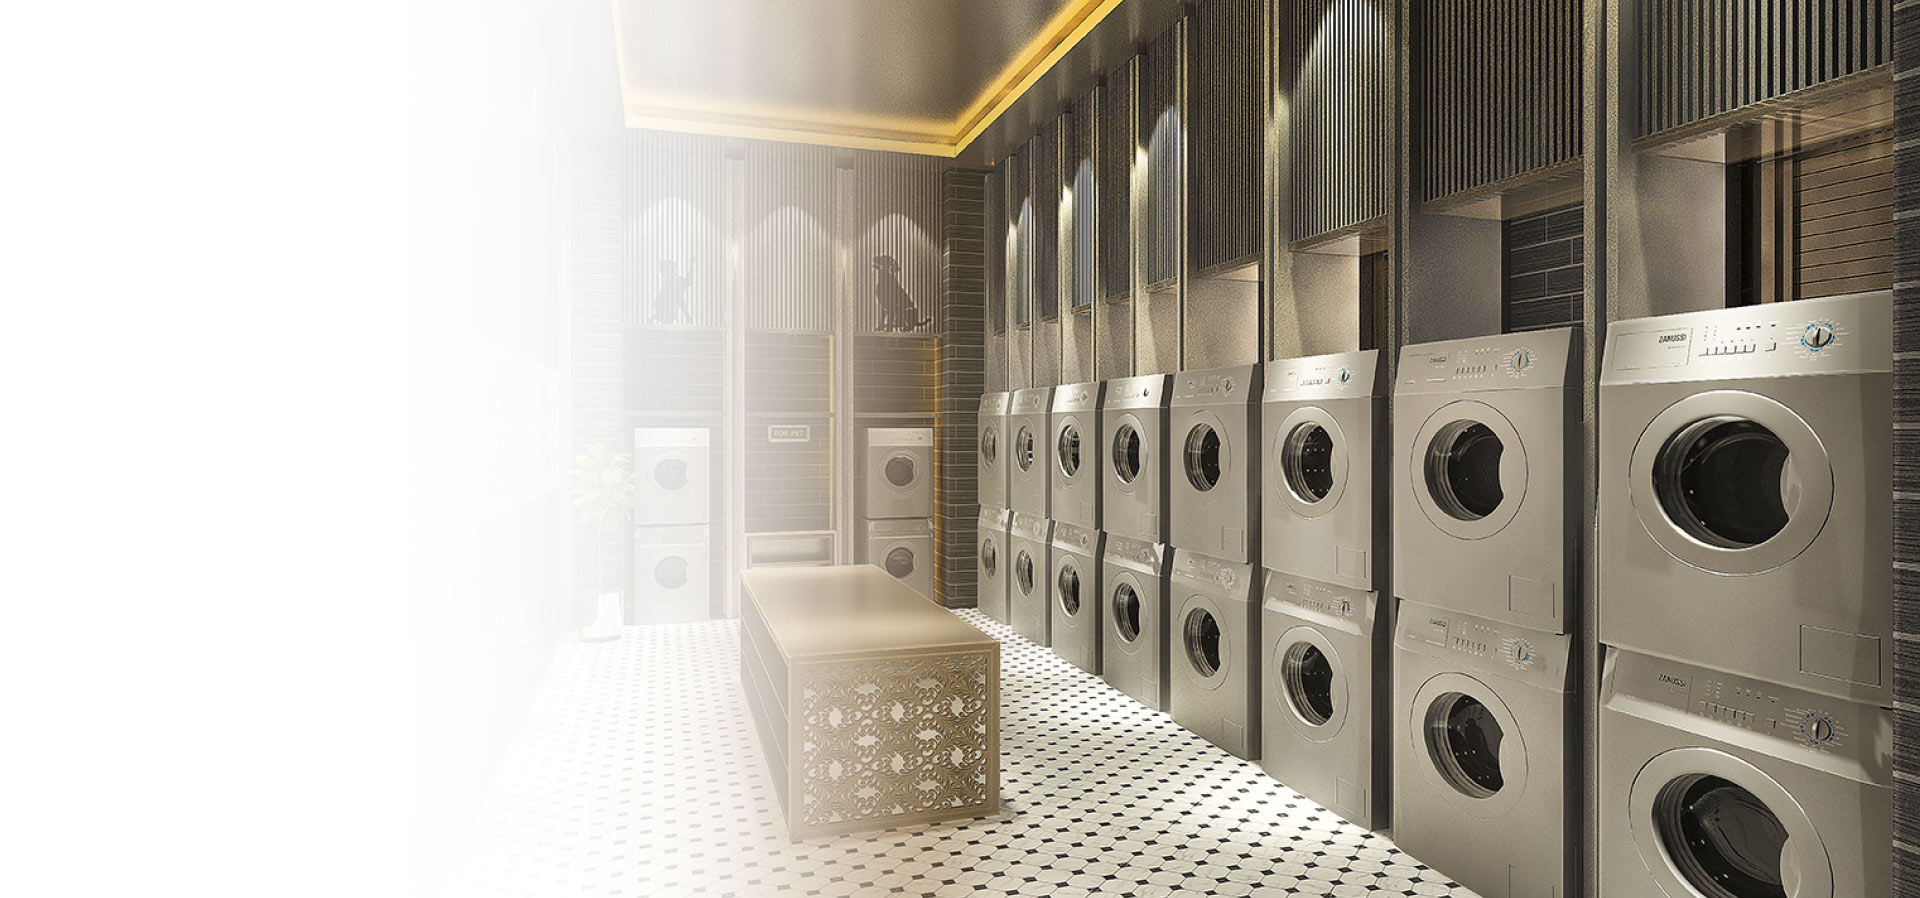
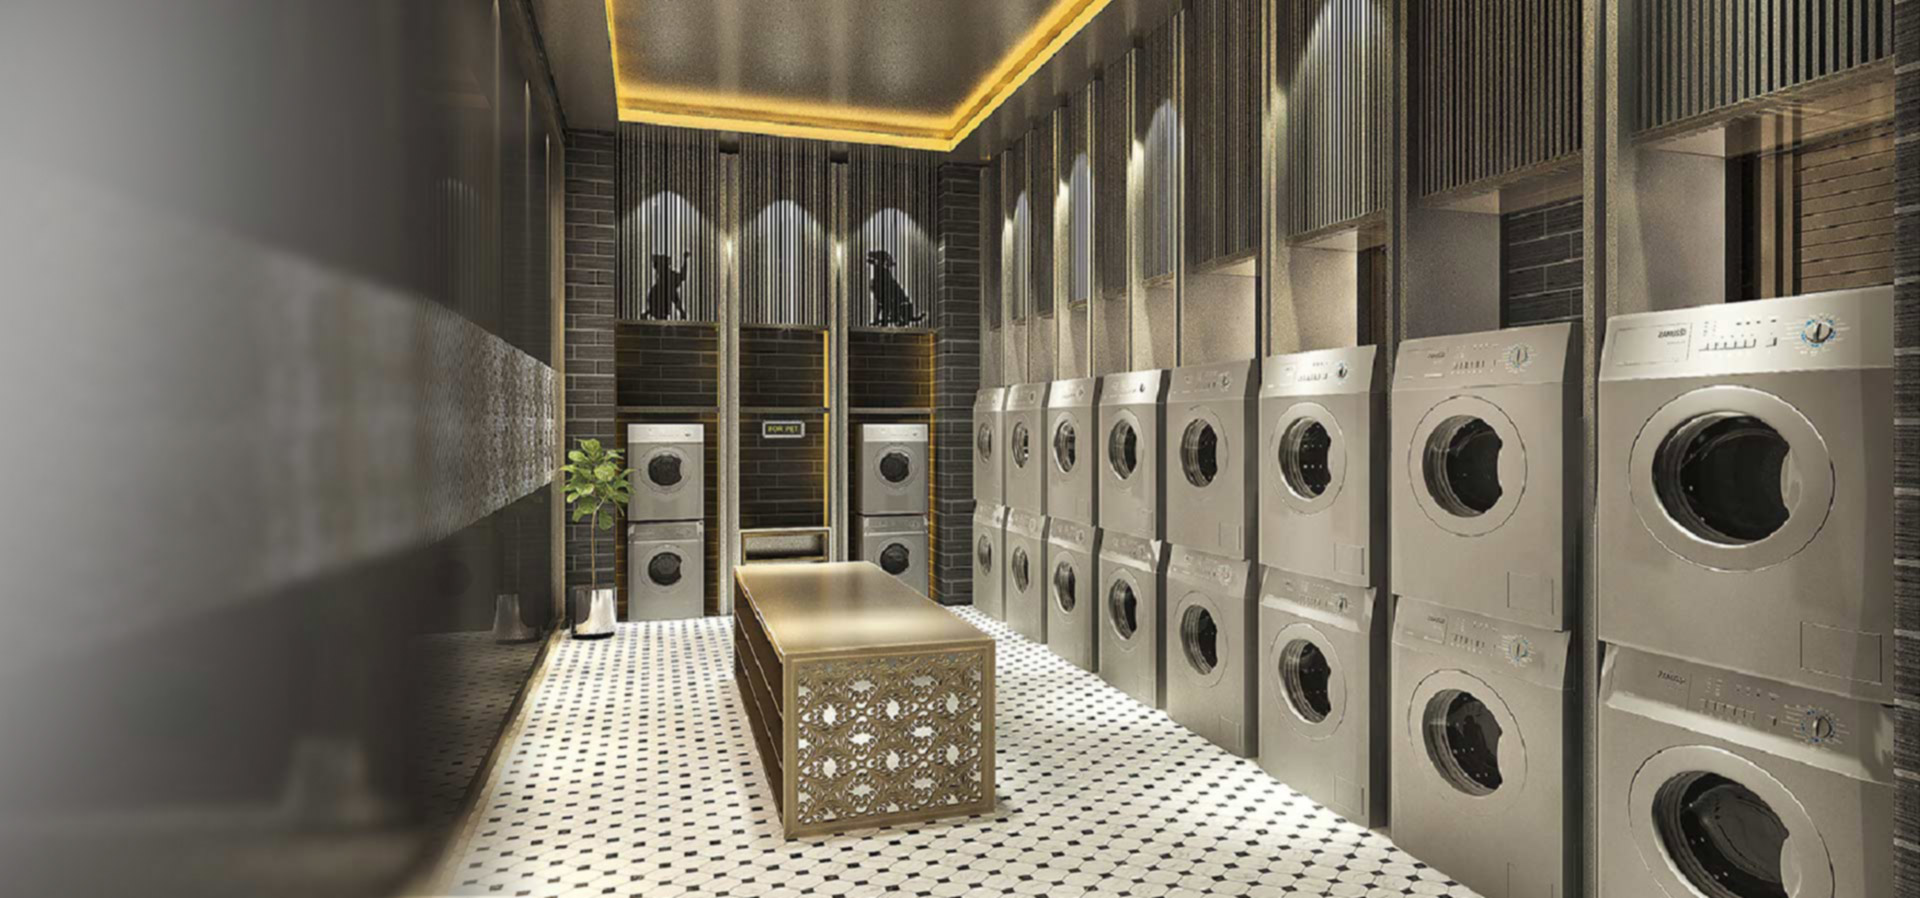
修改位置&照片

diff --git a/src/projects/aries/section5.vue b/src/projects/aries/section5.vue
@@ -67,8 +67,8 @@
         background: linear-gradient(
           -90deg,
           rgba(255, 255, 255, 0) 0%,
-          rgba(255, 255, 255, 1) 95%,
-          rgba(255, 255, 255, 1) 100%
+          rgba(255, 255, 255, 0.3) 95%,
+          rgba(255, 255, 255, 0.6) 100%
         );
       }
       .caption {
@@ -84,17 +84,20 @@
           font-weight: bold;
           line-height: 2.4vw;
           margin-bottom: 1vw;
+          text-shadow:0px 0px 10px #fff,0px 0px 3px #fff;
         }
         .title {
           display: inline;
           margin-right: 0.7vw;
           font-size: 1.2vw;
           color: #666666;
+          text-shadow:0px 0px 10px #fff,0px 0px 3px #fff;
         }
         .content {
           display: inline;
           font-size: 1.2vw;
           color: #666666;
+          text-shadow:0px 0px 10px #fff,0px 0px 3px #fff;
         }
       }
       .tip-title {

diff --git a/src/projects/aries/section7.vue b/src/projects/aries/section7.vue
@@ -46,13 +46,16 @@
       display: flex;
       align-items: center;
       justify-content: center;
-      .tree {
-        width: 4vw;
-      }
+      
       .title {
         width: 23vw;
       }
     }
+    .tree {
+        width: 4vw;
+        position: absolute;
+        left: 35%;
+      }
     .content {
       margin-top: 5vw;
       color: #4d4d4d;
@@ -86,7 +89,8 @@
         .tree {
           width: 10vw;
           position: absolute;
-          right: 10vw;
+          right: 18vw;
+          left: auto;
         }
         .title {
           width: 61vw;

diff --git a/src/projects/aries/section4.vue b/src/projects/aries/section4.vue
@@ -181,7 +181,7 @@
     }
     .para {
       position: absolute;
-      right: -5vw;
+      right: -9vw;
       top: 0;
     animation: para 5s ease-in-out infinite alternate;
 
